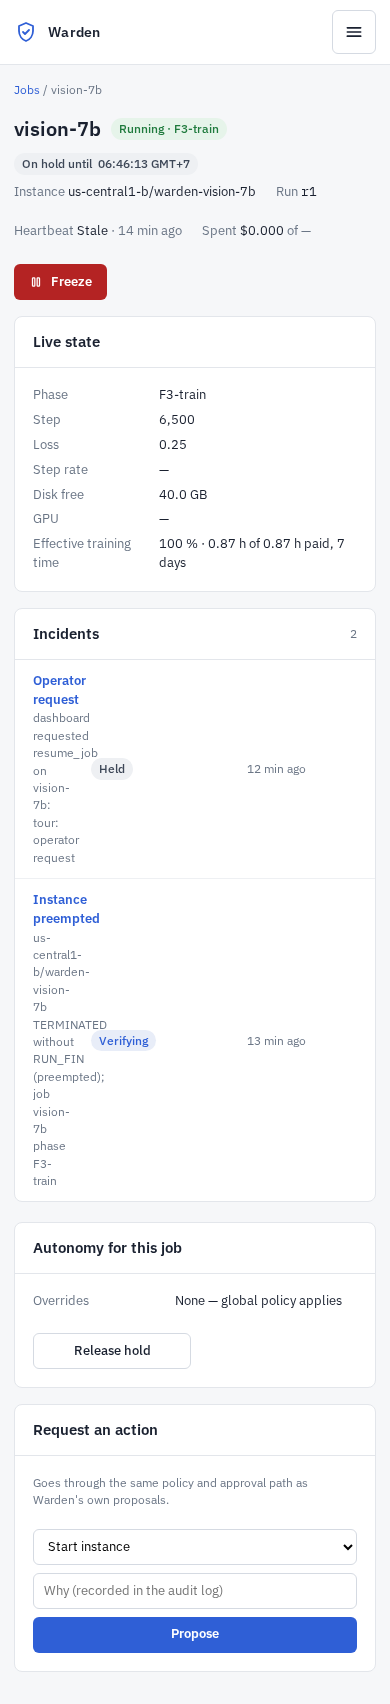
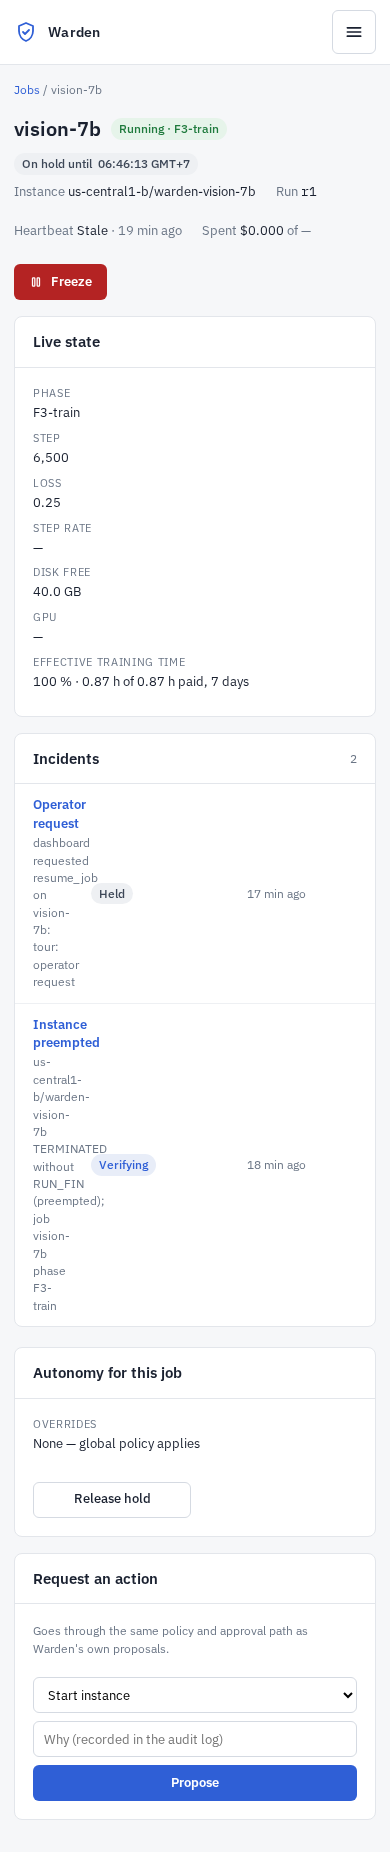
UI: rank the overview by severity, and make the phone incident page readable
The overview listed every one of 23 jobs alphabetically, so the fleet buried the
incidents; it now shows the ones a human would look at first (no heartbeat, then stale)
and links to the rest. Open incidents sorted by arrival time, which put an operator
request above a preempt storm — they now sort by severity, then recency. An empty
decision inbox no longer holds a full card open at the top of the page, and its copy
("Warden lists decisions here when a policy requires you") was not a sentence.

On a phone: property labels sit above their values instead of stealing a 110 px column,
which was wrapping log excerpts mid-token (torch.cuda.OutOfMe / moryError); chart axis
labels were drawn at 10 units inside a 640-unit viewBox scaled to ~330 px, so they
rendered at about 5 px; and a decision waiting on the operator now comes first on the
incident page instead of below the chart.

Keyboard focus had no styling anywhere in the stylesheet — :focus-visible now draws an
accent outline. The seven inline grid definitions in incident.html moved to a class,
since a media query cannot override an inline style; that was the root of three of the
layout faults fixed earlier today.

16 of 16 phone surfaces still fit; pytest 84.

Claude-Session: https://claude.ai/code/session_01Fuh28VCj2Qrwwf1V7cUUk5

diff --git a/warden/ui2/templates/incident.html b/warden/ui2/templates/incident.html
@@ -31,21 +31,21 @@
     {% if recovery.attempt or recovery.ladder or recovery.kind %}
     <div class="card">
       <div class="card-head"><div class="h">Recovery</div><div class="s12 muted num">{{ recovery.attempt }} attempt{{ '' if recovery.attempt == 1 else 's' }}{% if recovery.memory_ref %} · <a href="/incidents/{{ recovery.memory_ref }}">memory {{ recovery.memory_ref[-8:] }}</a>{% endif %}</div></div>
-      {% for hd in recovery.hypotheses_done %}<div class="section-row"><div class="props" style="grid-template-columns:150px minmax(0,1fr)"><div class="k">Tried</div><div class="v"><b>{{ hd.action }}</b> — <span class="{{ 'ok' if hd.status == 'Done' else 'crit' }}">{{ hd.status }}</span>{% if hd.why %} · {{ hd.why }}{% endif %}</div></div></div>{% endfor %}
-      {% if recovery.kind %}<div class="section-row"><div class="props" style="grid-template-columns:150px minmax(0,1fr)"><div class="k">Verification</div><div class="v"><b>{{ recovery.kind }}</b>{% if recovery.result == 'ok' %} · <span class="ok">Confirmed by the world</span>{% elif recovery.result == 'fail' %} · <span class="crit">Did not hold</span>{% else %} · <span class="warn">Checking</span> until <time data-utc="{{ recovery.deadline_iso }}" data-fmt="clock"></time>{% endif %}
+      {% for hd in recovery.hypotheses_done %}<div class="section-row"><div class="props props-wide"><div class="k">Tried</div><div class="v"><b>{{ hd.action }}</b> — <span class="{{ 'ok' if hd.status == 'Done' else 'crit' }}">{{ hd.status }}</span>{% if hd.why %} · {{ hd.why }}{% endif %}</div></div></div>{% endfor %}
+      {% if recovery.kind %}<div class="section-row"><div class="props props-wide"><div class="k">Verification</div><div class="v"><b>{{ recovery.kind }}</b>{% if recovery.result == 'ok' %} · <span class="ok">Confirmed by the world</span>{% elif recovery.result == 'fail' %} · <span class="crit">Did not hold</span>{% else %} · <span class="warn">Checking</span> until <time data-utc="{{ recovery.deadline_iso }}" data-fmt="clock"></time>{% endif %}
         {% if recovery.last_check %}<div class="s12 muted">Last check: {{ recovery.last_check.why }} (<time data-utc="{{ recovery.last_check.ts }}" data-fmt="rel"></time>)</div>{% endif %}</div></div></div>{% endif %}
-      {% if recovery.ladder %}<div class="section-row"><div class="props" style="grid-template-columns:150px minmax(0,1fr)"><div class="k">Next hypotheses</div><div class="v" style="display:flex;flex-direction:column;gap:4px">{% for r in recovery.ladder %}<span><b>{{ loop.index }}. {{ r.action }}</b>{% if r.params %} <span class="mono s12">({{ r.params }})</span>{% endif %} — {{ r.why }}</span>{% endfor %}</div></div></div>{% endif %}
+      {% if recovery.ladder %}<div class="section-row"><div class="props props-wide"><div class="k">Next hypotheses</div><div class="v" style="display:flex;flex-direction:column;gap:4px">{% for r in recovery.ladder %}<span><b>{{ loop.index }}. {{ r.action }}</b>{% if r.params %} <span class="mono s12">({{ r.params }})</span>{% endif %} — {{ r.why }}</span>{% endfor %}</div></div></div>{% endif %}
       {% if recovery.can_false_positive %}<div class="section-row"><button class="btn btn-secondary" data-act="/decisions/{{ (pending[0].decision_id if pending else past[0].decision_id if past else inc.ref) }}/false_positive?who=dashboard" data-key="{{ (pending[0].decision_id if pending else past[0].decision_id if past else inc.ref) }}">Mark as false positive</button><span class="s12 muted" style="margin-left:8px">Warden withholds this action for this job after two dismissals in 7 days.</span></div>{% endif %}
     </div>
     {% endif %}
     {% if diag or evidence %}
     <div class="card">
       <div class="card-head"><div class="h">Evidence</div></div>
-      {% if diag.evidence_quotes %}<div class="section-row"><div class="props" style="grid-template-columns:150px minmax(0,1fr)"><div class="k">Log excerpt</div><div class="v"><div class="code">{% for q in diag.evidence_quotes %}{{ q }}{% if not loop.last %}
+      {% if diag.evidence_quotes %}<div class="section-row"><div class="props props-wide"><div class="k">Log excerpt</div><div class="v"><div class="code">{% for q in diag.evidence_quotes %}{{ q }}{% if not loop.last %}
 {% endif %}{% endfor %}</div></div></div></div>{% endif %}
-      {% if cc.checks %}<div class="section-row"><div class="props" style="grid-template-columns:150px minmax(0,1fr)"><div class="k">Cross-check</div><div class="v" style="display:flex;flex-direction:column;gap:4px">{% for c in cc.checks %}<span class="{{ 'ok' if c.ok else 'crit' }}">{{ 'Passed' if c.ok else 'Failed' }} — {{ c.check|replace('_',' ') }}{% if c.note %}: {{ c.note }}{% endif %}</span>{% endfor %}</div></div></div>{% endif %}
-      {% if diag.falsifiable_check %}<div class="section-row"><div class="props" style="grid-template-columns:150px minmax(0,1fr)"><div class="k">How to disprove</div><div class="v">{{ diag.falsifiable_check }}</div></div></div>{% endif %}
-      {% for e in evidence if e.results %}{% set failed = e.results|rejectattr('ok')|list %}<div class="section-row"><div class="props" style="grid-template-columns:150px minmax(0,1fr)"><div class="k">{{ e.kind }}</div><div class="v" style="display:flex;flex-direction:column;gap:4px"><span class="{{ 'ok' if not failed else 'crit' }}">{{ e.results|length - failed|length }} of {{ e.results|length }} artifacts passed</span>{% for r in failed[:12] %}<span class="mono s12 crit">Failed — {{ r.name }} · {{ '{:,}'.format(r.bytes or 0) }} B{% if r.reason %} · {{ r.reason }}{% endif %}</span>{% endfor %}{% if failed|length > 12 %}<span class="muted s12">{{ failed|length - 12 }} more</span>{% endif %}<a class="s12" href="?tab=evidence">All artifacts</a></div></div></div>{% endfor %}
+      {% if cc.checks %}<div class="section-row"><div class="props props-wide"><div class="k">Cross-check</div><div class="v" style="display:flex;flex-direction:column;gap:4px">{% for c in cc.checks %}<span class="{{ 'ok' if c.ok else 'crit' }}">{{ 'Passed' if c.ok else 'Failed' }} — {{ c.check|replace('_',' ') }}{% if c.note %}: {{ c.note }}{% endif %}</span>{% endfor %}</div></div></div>{% endif %}
+      {% if diag.falsifiable_check %}<div class="section-row"><div class="props props-wide"><div class="k">How to disprove</div><div class="v">{{ diag.falsifiable_check }}</div></div></div>{% endif %}
+      {% for e in evidence if e.results %}{% set failed = e.results|rejectattr('ok')|list %}<div class="section-row"><div class="props props-wide"><div class="k">{{ e.kind }}</div><div class="v" style="display:flex;flex-direction:column;gap:4px"><span class="{{ 'ok' if not failed else 'crit' }}">{{ e.results|length - failed|length }} of {{ e.results|length }} artifacts passed</span>{% for r in failed[:12] %}<span class="mono s12 crit">Failed — {{ r.name }} · {{ '{:,}'.format(r.bytes or 0) }} B{% if r.reason %} · {{ r.reason }}{% endif %}</span>{% endfor %}{% if failed|length > 12 %}<span class="muted s12">{{ failed|length - 12 }} more</span>{% endif %}<a class="s12" href="?tab=evidence">All artifacts</a></div></div></div>{% endfor %}
     </div>
     {% endif %}
     {% if chart %}
@@ -55,7 +55,7 @@
         <line x1="40" y1="110" x2="620" y2="110" stroke="#e3e6eb"></line><line x1="40" y1="70" x2="620" y2="70" stroke="#eef0f3"></line><line x1="40" y1="30" x2="620" y2="30" stroke="#eef0f3"></line>
         <text x="8" y="114" fill="#6b7686" font-size="10">0</text><text x="8" y="74" fill="#6b7686" font-size="10">{{ chart.mid }}</text><text x="8" y="34" fill="#6b7686" font-size="10">{{ chart.max }}</text>
         <polyline fill="none" stroke="#2f5fd6" stroke-width="2" points="{{ chart.points }}"></polyline>
-        <foreignObject x="40" y="120" width="580" height="20"><div xmlns="http://www.w3.org/1999/xhtml" style="display:flex;justify-content:space-between;font-size:10px;color:#6b7686"><time data-utc="{{ chart.t0 }}"></time><time data-utc="{{ chart.t1 }}"></time><time data-utc="{{ chart.t2 }}"></time></div></foreignObject>
+        <foreignObject x="40" y="120" width="580" height="20"><div xmlns="http://www.w3.org/1999/xhtml" class="chart-x"><time data-utc="{{ chart.t0 }}"></time><time data-utc="{{ chart.t1 }}"></time><time data-utc="{{ chart.t2 }}"></time></div></foreignObject>
       </svg>
     </div>
     {% endif %}

diff --git a/warden/ui2/static/warden.css b/warden/ui2/static/warden.css
@@ -84,6 +84,13 @@ a.plain { color: var(--text); font-weight: 600; } a.plain:hover { color: var(--a
 input, select, textarea, button { max-width: 100%; box-sizing: border-box; }
 select { width: 100%; }
 
+/* keyboard focus must be visible: an operator approving an action should always see what is selected */
+:focus-visible { outline: 2px solid var(--accent); outline-offset: 2px; border-radius: 4px; }
+
+.empty-line { padding: 12px 18px; }
+.chart-x { display: flex; justify-content: space-between; font-size: 10px; color: var(--muted); }
+.card.quiet .card-head { border-bottom: none; }
+
 /* semantics */
 .pill { display: inline-flex; align-items: center; gap: 6px; padding: 2px 8px; border-radius: 999px; font-size: 12px; font-weight: 500; white-space: nowrap; }
 .pill-ok { background: var(--ok-bg); color: var(--ok-text); } .pill-warn { background: var(--warn-bg); color: var(--warn-text); } .pill-crit { background: var(--crit-bg); color: var(--crit-text); }
@@ -93,6 +100,7 @@ select { width: 100%; }
 .health { display: inline-flex; align-items: center; gap: 6px; } .health .dot { width: 7px; height: 7px; }
 .actor { display: inline-flex; padding: 1px 7px; border-radius: 4px; font-size: 11px; font-weight: 600; }
 .actor-warden { background: var(--line); color: var(--text-2); } .actor-gemini { background: var(--gemini-bg); color: var(--gemini); } .actor-operator { background: var(--ok-bg); color: var(--ok-text); }
+.props-wide { grid-template-columns: 150px minmax(0, 1fr); }
 .props { display: grid; grid-template-columns: 160px minmax(0, 1fr); gap: 6px 16px; } .props.narrow { grid-template-columns: 130px minmax(0, 1fr); gap: 8px 12px; } .props .k { color: var(--muted); } .props .v { min-width: 0; overflow-wrap: anywhere; }
 .code { padding: 10px 12px; border-radius: 6px; background: var(--canvas); border: 1px solid var(--border); font-family: "IBM Plex Mono", Menlo, monospace; font-size: 12px; white-space: pre-wrap; }
 .tabs { display: flex; gap: 24px; border-bottom: 1px solid var(--border); font-weight: 500; }
@@ -143,5 +151,13 @@ select { width: 100%; }
   .table.stack .cols-audit > [data-l='Phase']::before { content: none; }
   .cols-audit { min-width: 760px; } .cols-policy { min-width: 520px; } .cols-ettr { min-width: 560px; } .cols-stale { min-width: 560px; } .cols-timeline { min-width: 600px; } .cols-override { min-width: 640px; }
   .ask-form { grid-template-columns: 1fr; }
-  .props { grid-template-columns: 110px minmax(0, 1fr); }
+  /* On a phone a 110 px label column leaves ~200 px for the value, which broke log excerpts mid-token.
+     The label goes above the value instead, matching the stacked tables. */
+  .props, .props.narrow, .props-wide { grid-template-columns: 1fr; gap: 2px 0; }
+  .props .k { font-size: 11px; text-transform: uppercase; letter-spacing: 0.06em; }
+  .props .v { margin-bottom: 6px; }
+  /* The chart is drawn in a 640-unit viewBox scaled to ~330 px, so 10-unit labels render at about 5 px. */
+  .card svg text { font-size: 19px; } .chart-x { font-size: 19px; }
+  /* When a decision is waiting, it is the reason the operator opened the page — put it first on a phone. */
+  .split > aside.decision { order: -1; }
 }

diff --git a/warden/ui2/templates/overview.html b/warden/ui2/templates/overview.html
@@ -8,7 +8,7 @@
   <div class="actions"><span class="select">Last 24 hours</span>{% include "_freeze.html" %}</div>
 </header>
 
-<section class="card">
+<section class="card{% if not decisions %} quiet{% endif %}">
   <div class="card-head"><div class="h">Needs your decision</div><div class="s12 muted num">{{ decisions|length }} pending</div></div>
   {% for d in decisions %}
   <div class="tr cols-decision">
@@ -22,7 +22,7 @@
       <a class="btn btn-secondary" href="/incidents/{{ d.incident_id }}">Review</a>
     </div>
   </div>
-  {% else %}<div class="empty"><b>No pending decisions</b><span>Warden lists decisions here when a policy requires you.</span></div>{% endfor %}
+  {% else %}<div class="empty-line s12 muted">Nothing waiting on you. Warden asks here when a policy requires your approval.</div>{% endfor %}
 </section>
 
 <section class="stats">
@@ -48,8 +48,8 @@
 
 <section class="two">
   <div class="card">
-    <div class="card-head"><div class="h">Jobs</div><a class="s12" href="/jobs">View all jobs</a></div>
-    {% for j in jobs %}
+    <div class="card-head"><div class="h">Jobs needing attention</div><a class="s12" href="/jobs">All {{ jobs|length }} jobs</a></div>
+    {% for j in jobs_shown %}
     <div class="section-row" style="display:flex;flex-direction:column;gap:8px">
       <div style="display:flex;align-items:center;justify-content:space-between"><a class="plain" href="/jobs">{{ j.job_id }}</a><span class="pill pill-{{ j.status_cls }}">{{ j.status }}{% if j.phase %} · {{ j.phase }}{% endif %}</span></div>
       {% if j.pct is not none %}<div class="progress"><i class="{{ 'done' if j.pct >= 100 else '' }}" style="width:{{ j.pct }}%"></i></div>{% endif %}

diff --git a/warden/ui2/data.py b/warden/ui2/data.py
@@ -218,6 +218,14 @@ def base_context() -> dict:
             "services": services, "n_pending": len(pending), "n_open": len(open_incs)}
 
 
+def _needs_attention(rows: list[dict], keep: int = 8) -> list[dict]:
+    """The overview is an inbox: show the jobs a human would look at first, and link to the rest."""
+    def rank(r: dict) -> tuple:
+        return (0 if r["hb_cls"] == "crit" else 1 if r["hb_cls"] == "warn" else 2,
+                0 if r["status"] not in ("Complete", "Abandoned") else 1, r["job_id"])
+    return sorted(rows, key=rank)[:keep]
+
+
 def overview_context() -> dict:
     from warden.steward import ledger
     ctx = base_context()
@@ -238,6 +246,7 @@ def overview_context() -> dict:
         inc = inc_by_id.get(d.incident_id); ref = d.params.get("instance_ref") or (inc.instance_ref if inc else "")
         decisions.append(decision_view(d, inc, inst_by_ref.get(ref)))
     job_rows = []
+    sev_order = {"critical": 0, "warning": 1, "info": 2}
     for j in sorted(jobs, key=lambda x: (_s(x.status) != "RUNNING", x.job_id)):
         h = db.last_heartbeat(j.job_id); txt, cls, ts = hb_state(h); st, scls = JOB_STATUS.get(_s(j.status), (_s(j.status), "grey"))
         total = int((j.expect or {}).get("steps") or 0)
@@ -258,7 +267,8 @@ def overview_context() -> dict:
                                                    "burn": usd(proj["burn_usd_per_hour"], 3), "mtd": usd(proj["month_to_date_usd"]), "cap": usd(proj["cap_usd"], 0),
                                                    "cap_pct": max(1, round(100 * proj["month_to_date_usd"] / max(proj["cap_usd"], 1))) if proj["month_to_date_usd"] > 0 else 0,
                                                    "ettr_pct": round(100 * eff / paid) if paid else None, "eff_h": round(eff, 2), "paid_h": round(paid, 2), "today": usd(proj["today_usd"])},
-                "open_rows": [incident_row(i) for i in ctx["open_incs"][:8]], "jobs": job_rows, "activity": activity_rows(ctx["incs"], ctx["decs"], 6), "proj": proj})
+                "open_rows": [incident_row(i) for i in sorted(ctx["open_incs"], key=lambda i: (sev_order.get(_s(i.severity), 3), -i.created_at.timestamp()))[:8]],
+                "jobs": job_rows, "jobs_shown": _needs_attention(job_rows), "activity": activity_rows(ctx["incs"], ctx["decs"], 6), "proj": proj})
     return ctx
 
 
